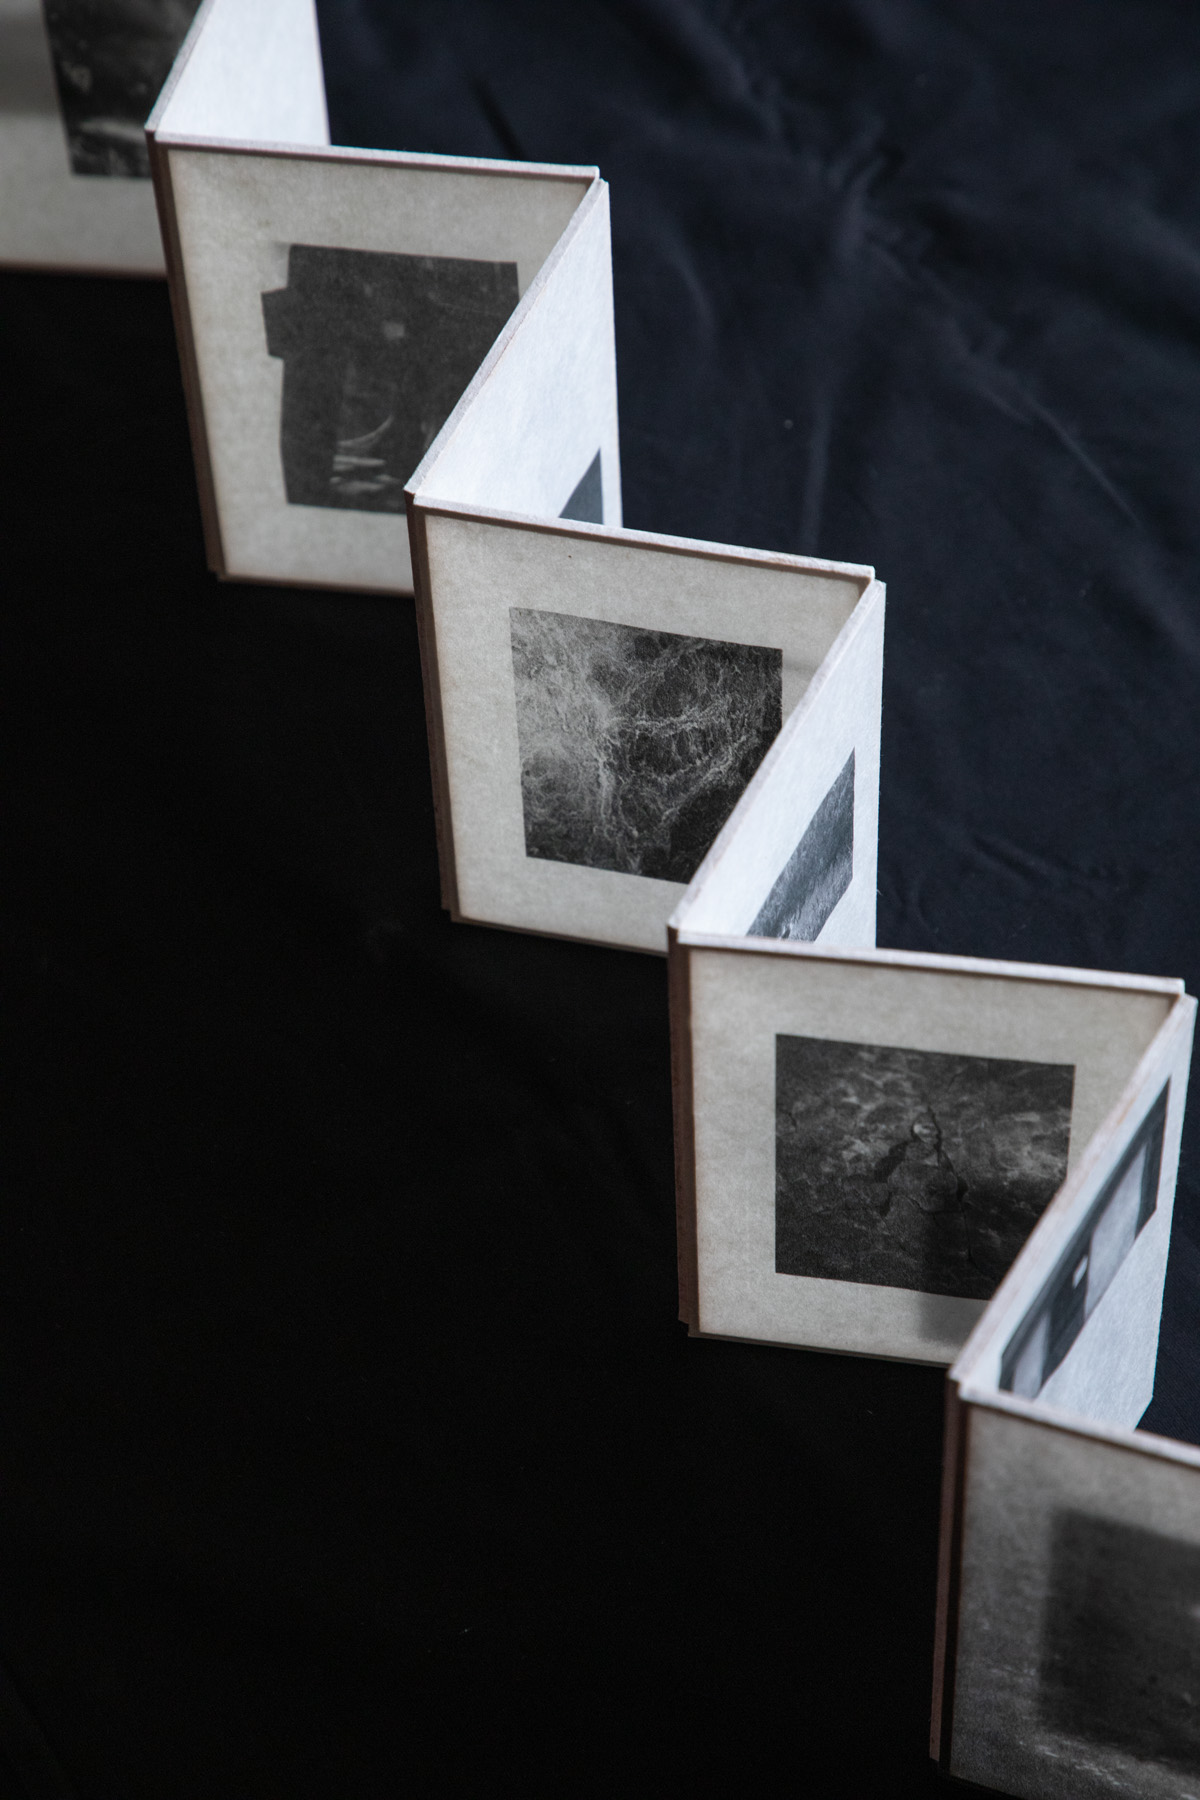
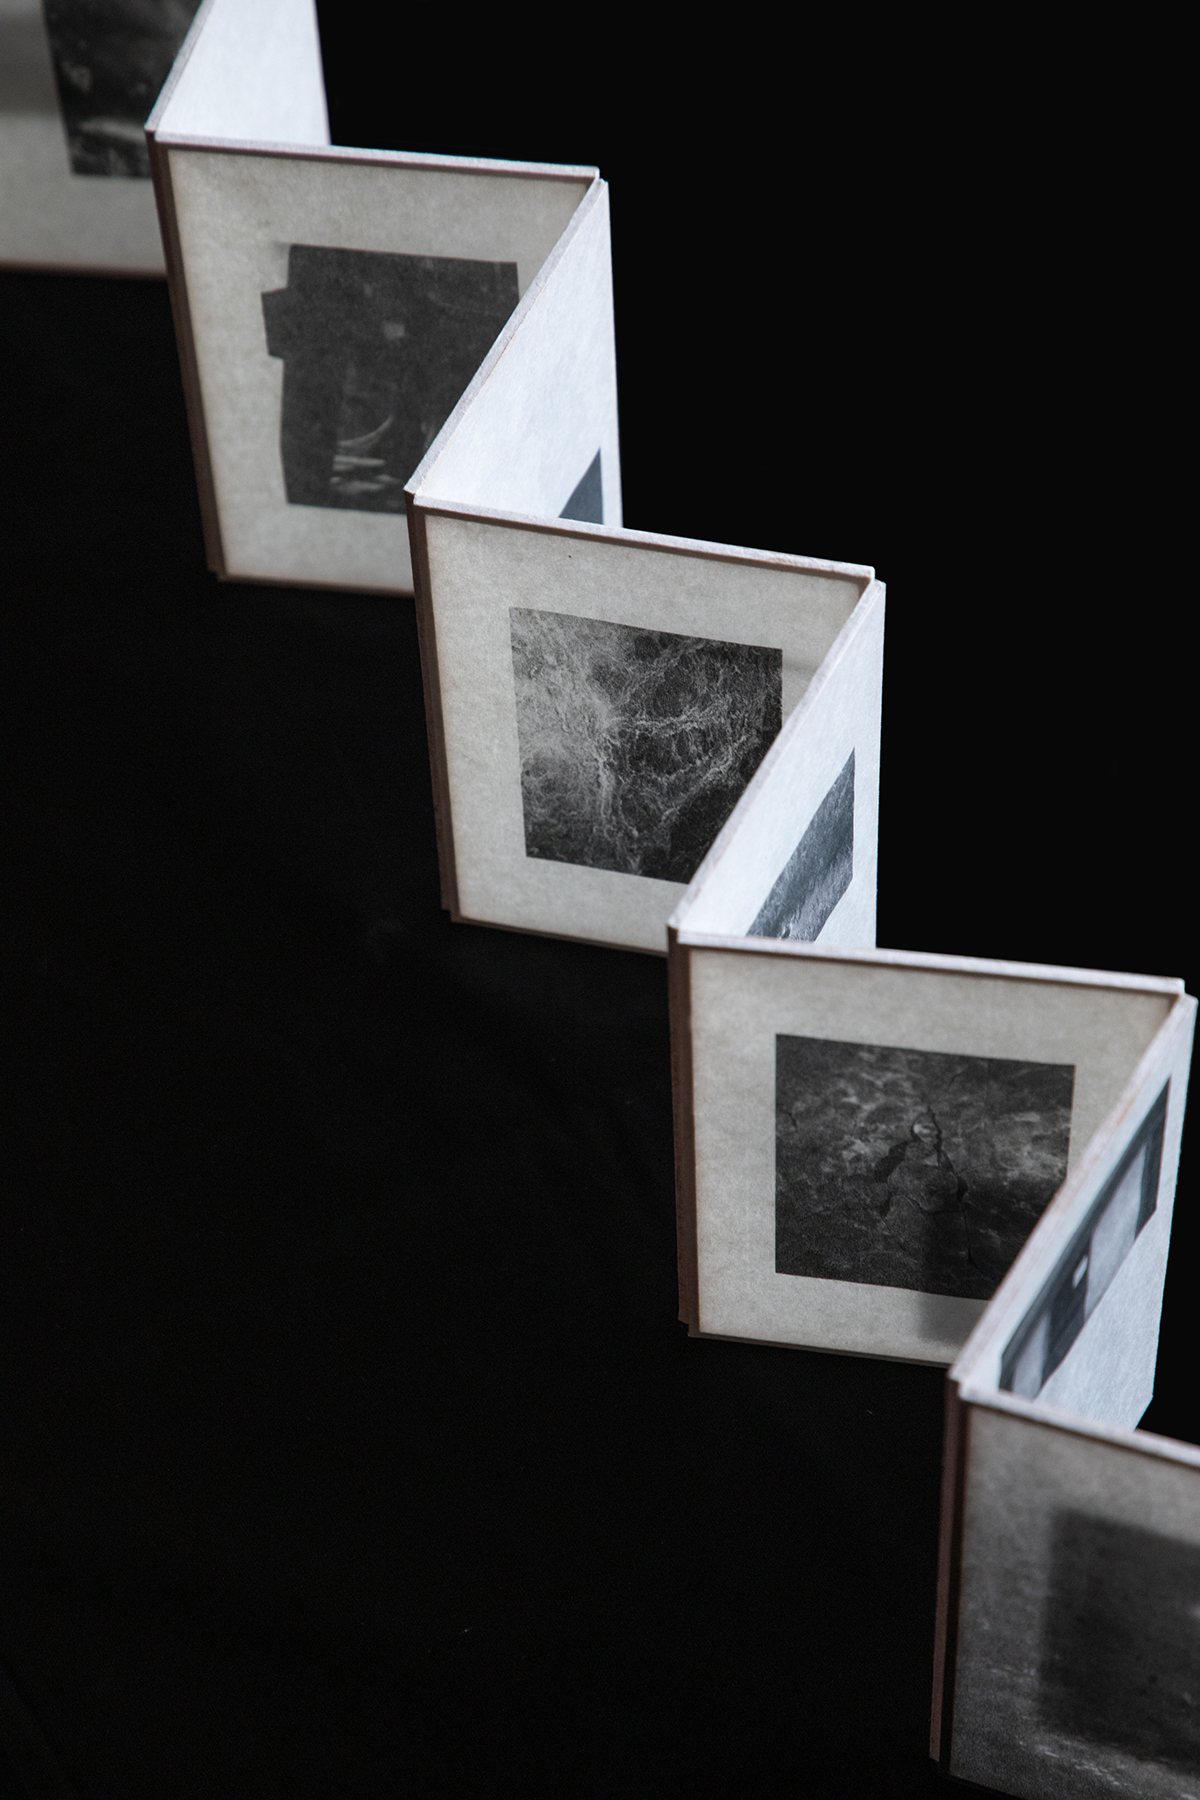
cv updates

Changed region(s): [[0.2467, 0.0, 1.0, 0.8089]]

diff --git a/bk-zine-thesmallestregistersofmotion.html b/bk-zine-thesmallestregistersofmotion.html
@@ -155,7 +155,7 @@
         </div>
 
         <div style="padding-bottom: 1em;">
-          <br><small><i>the smallest registers of motion</i><span lang="zh">《微尘似梦》</span><span lang="ja">｢上り月や 手に震える｣</span>. 2024. Inkjet print on washi. 10 x 16 cm. (3.94 x 6.30 in).
+          <br><small><i>the smallest registers of motion</i><span lang="zh">《微尘似梦》</span><span lang="ja">｢上り月や 手に震える｣</span>. 2024. Inkjet print on washi and tracing paper. 10 x 16 cm. (3.94 x 6.30 in).
           <br><br>
           This zine/artist book tracks the oblique events, background noises and minutiae of our everyday lives. To reflect the fragility of its subject matter such as moths, gossamer and aged shōji doors, I used extremely thin washi such that not only do the images become porous and translucent to overlay each other, but the book itself feels almost unbearably delicate to the touch. The size of each page increases with each spread, scaffolding the pages in such a way that every edge is visible from the very beginning, hinting at the gradual and measured unfolding of the smallest registers of motion.
           <br>

diff --git a/cv.html b/cv.html
@@ -146,7 +146,7 @@
     </p>
     <h2>Artist Book Fairs</h2>
     <p>
-        2026 UNFOLD Shanghai, Shanghai, China (upcoming)<br>
+        2026 UNFOLD Shanghai, Shanghai, China<br>
         2026 <a class="inlinelink" href="https://mnbookarts.org/shop/p/sea-tiles-dreaming-tides-artists-book-by-angelica-ong" target="_blank">Fore Edge Fair</a>, online with MCBA, Minneapolis, MN, USA <br>
         2026 OFFCUT SEOUL, Seoul, South Korea <span style="font-size: 85%;">[represented by FLOOR_]</span> <br>
         2026 Taipei Art Book Fair (10th Anniversary), Taipei, Taiwan <span style="font-size: 85%;">[represented by FLOOR_]</span> <br>